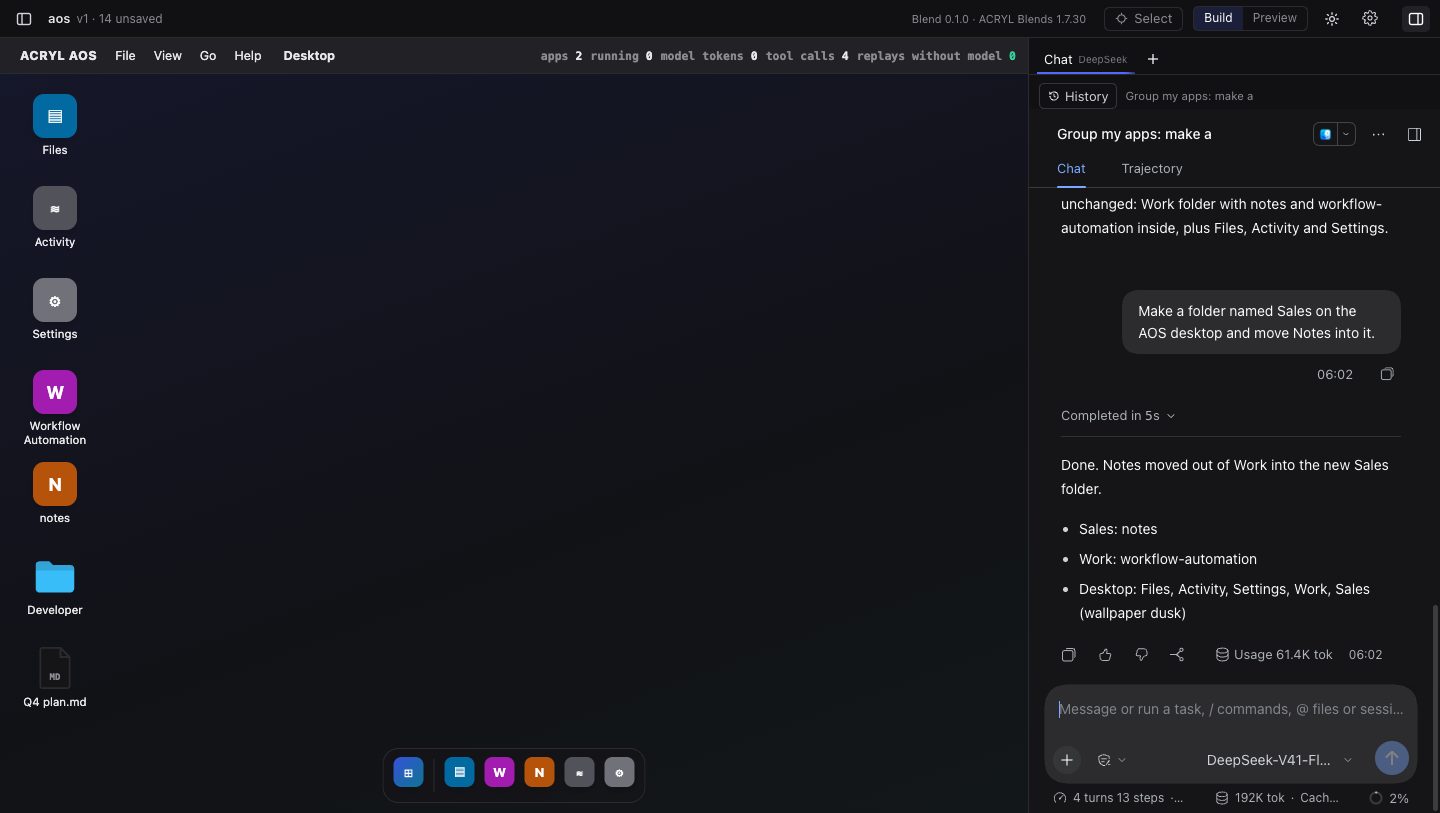
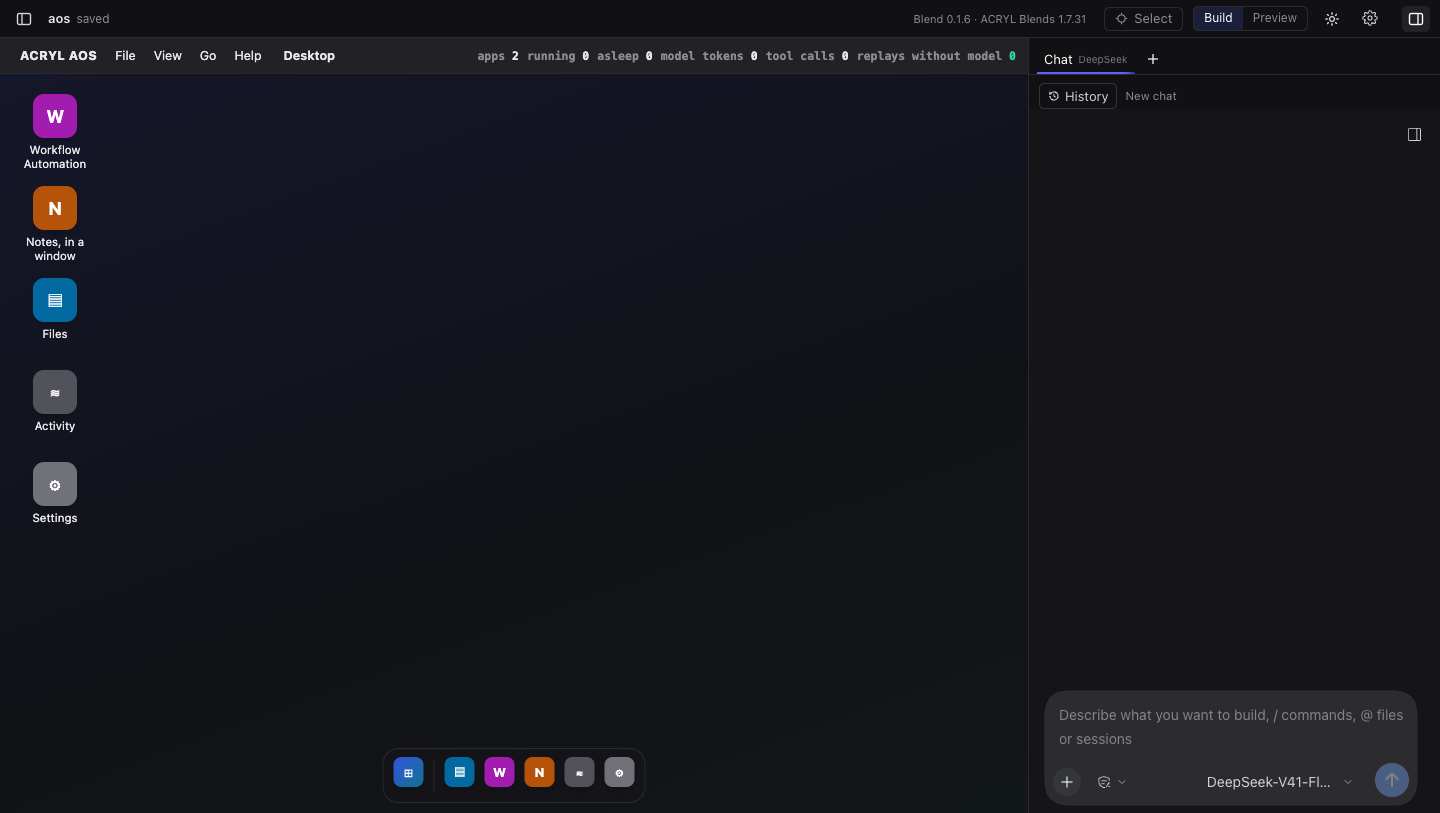
docs: store gallery (docs/screenshots.json, seven screens from the AION proof of 0.1.6); Settings is 440 px tall so its last line shows
Claude-Session: https://claude.ai/code/session_011hQ4WHcr1LjsvEG1dSFaq8

diff --git a/plugins/aos/page/aos.js b/plugins/aos/page/aos.js
@@ -136,7 +136,7 @@ function openWindow(id, title = TITLES[id] ?? nameOf(id)) {
   const w = document.createElement('div')
   w.className = 'w'; w.dataset.id = id
   const width = id === 'activity' || id === 'run' ? 480 : id === 'files' ? 460 : 400
-  Object.assign(w.style, { left: `${(desk.clientWidth < 600 ? 8 : 120 + (n * 34) % 260)}px`, top: `${16 + (n * 30) % 200}px`, width: `${width}px`, height: `${id === 'activity' || id === 'settings' || id === 'run' ? 400 : 320}px` })
+  Object.assign(w.style, { left: `${(desk.clientWidth < 600 ? 8 : 120 + (n * 34) % 260)}px`, top: `${16 + (n * 30) % 200}px`, width: `${width}px`, height: `${id === 'settings' ? 440 : id === 'activity' || id === 'run' ? 400 : 320}px` })
   w.innerHTML = `<div class="bar"><button class="cl" aria-label="Close ${esc(title)}"></button><button class="mn" aria-label="Minimize ${esc(title)}"></button><span class="t">${esc(title)}</span></div><div class="wb"></div>`
   desk.appendChild(w)
   ui.open[id] = w
